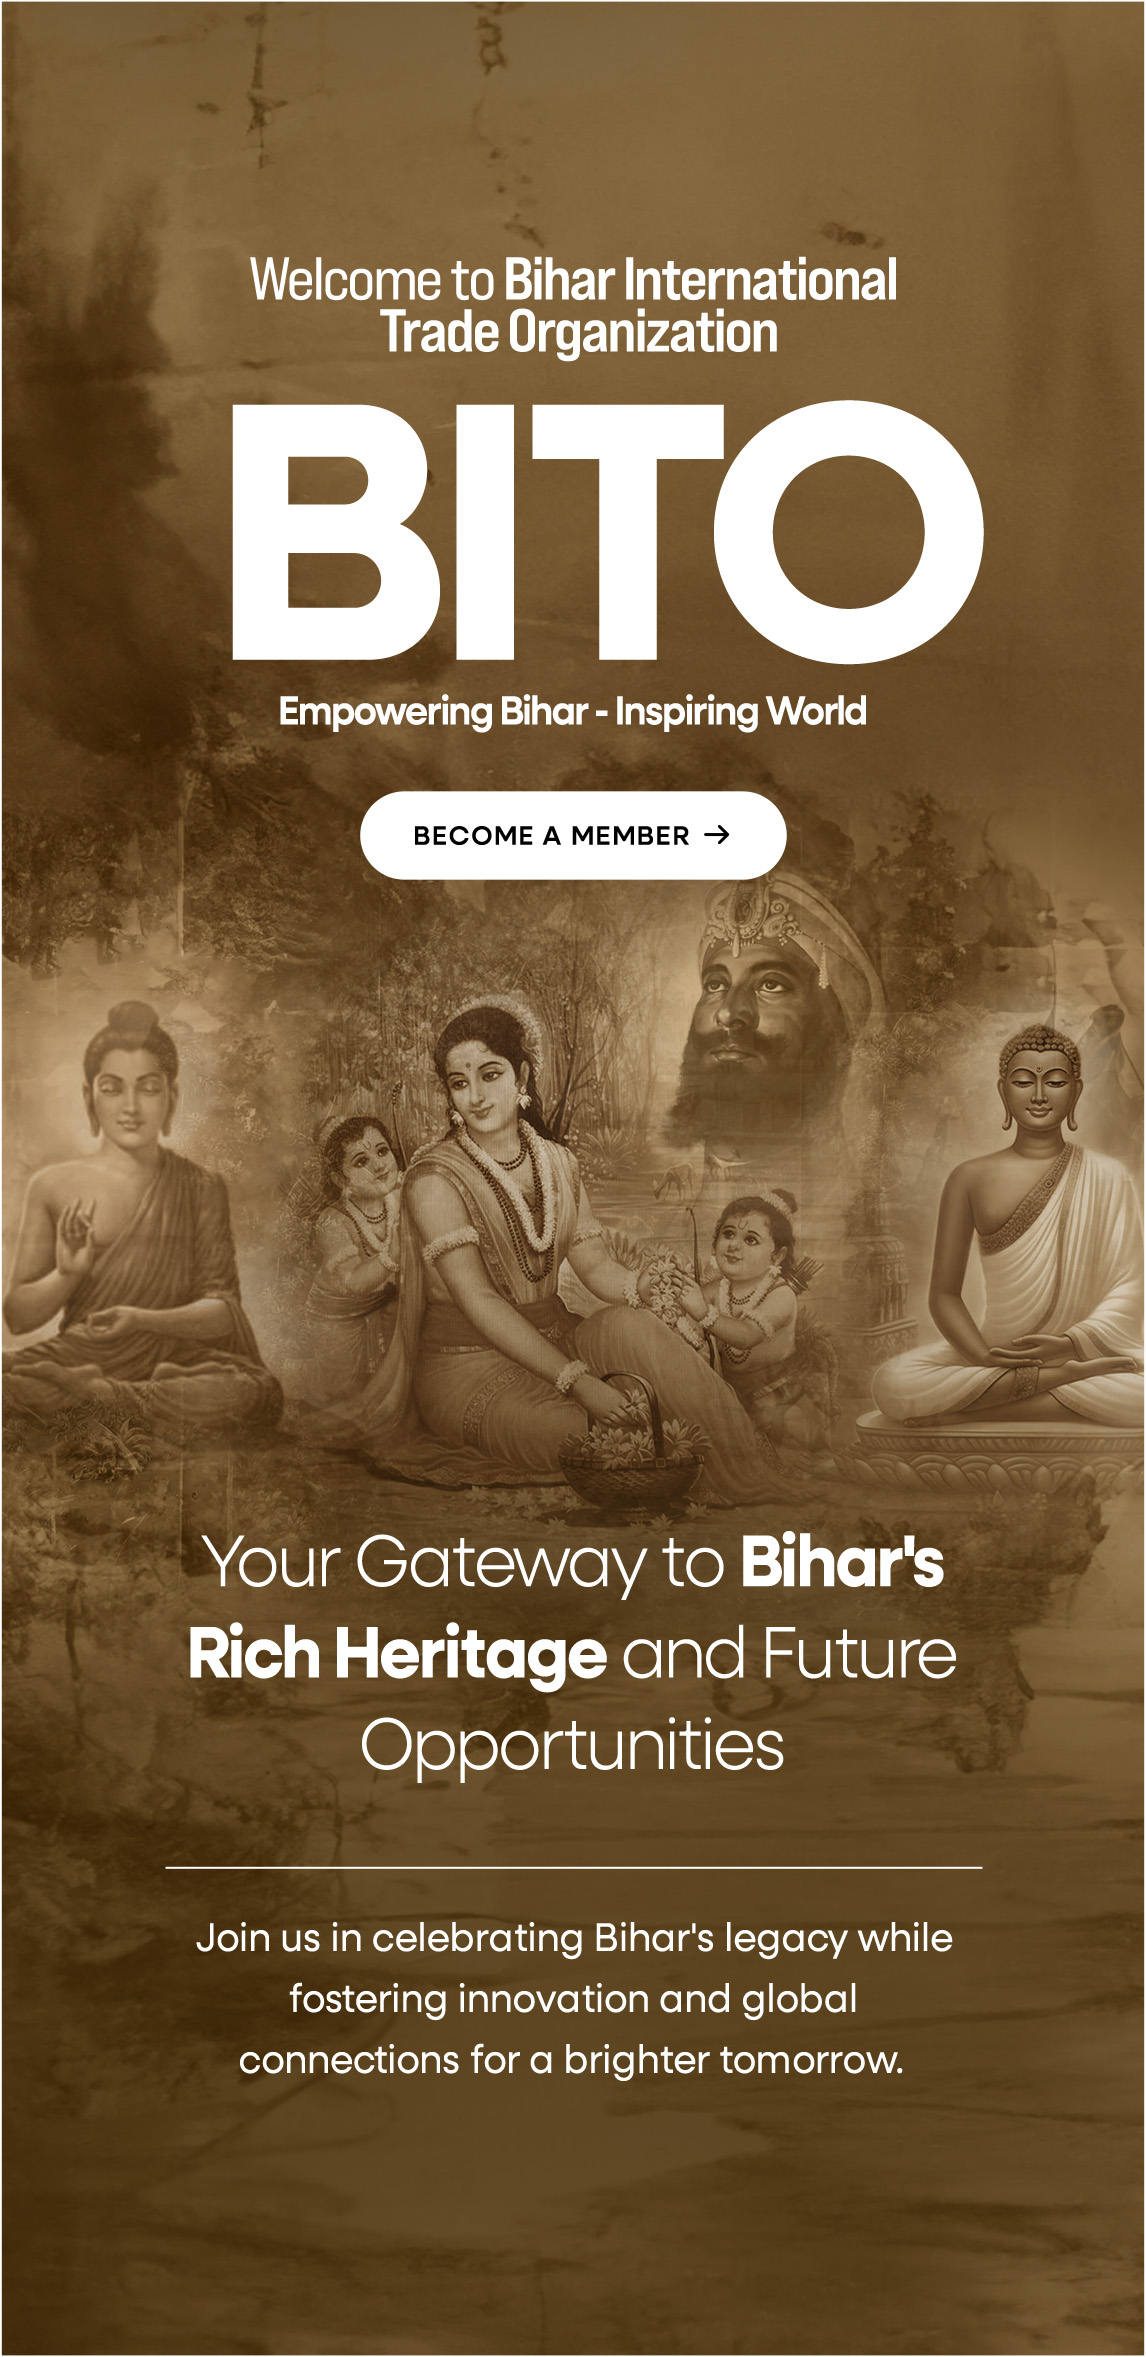
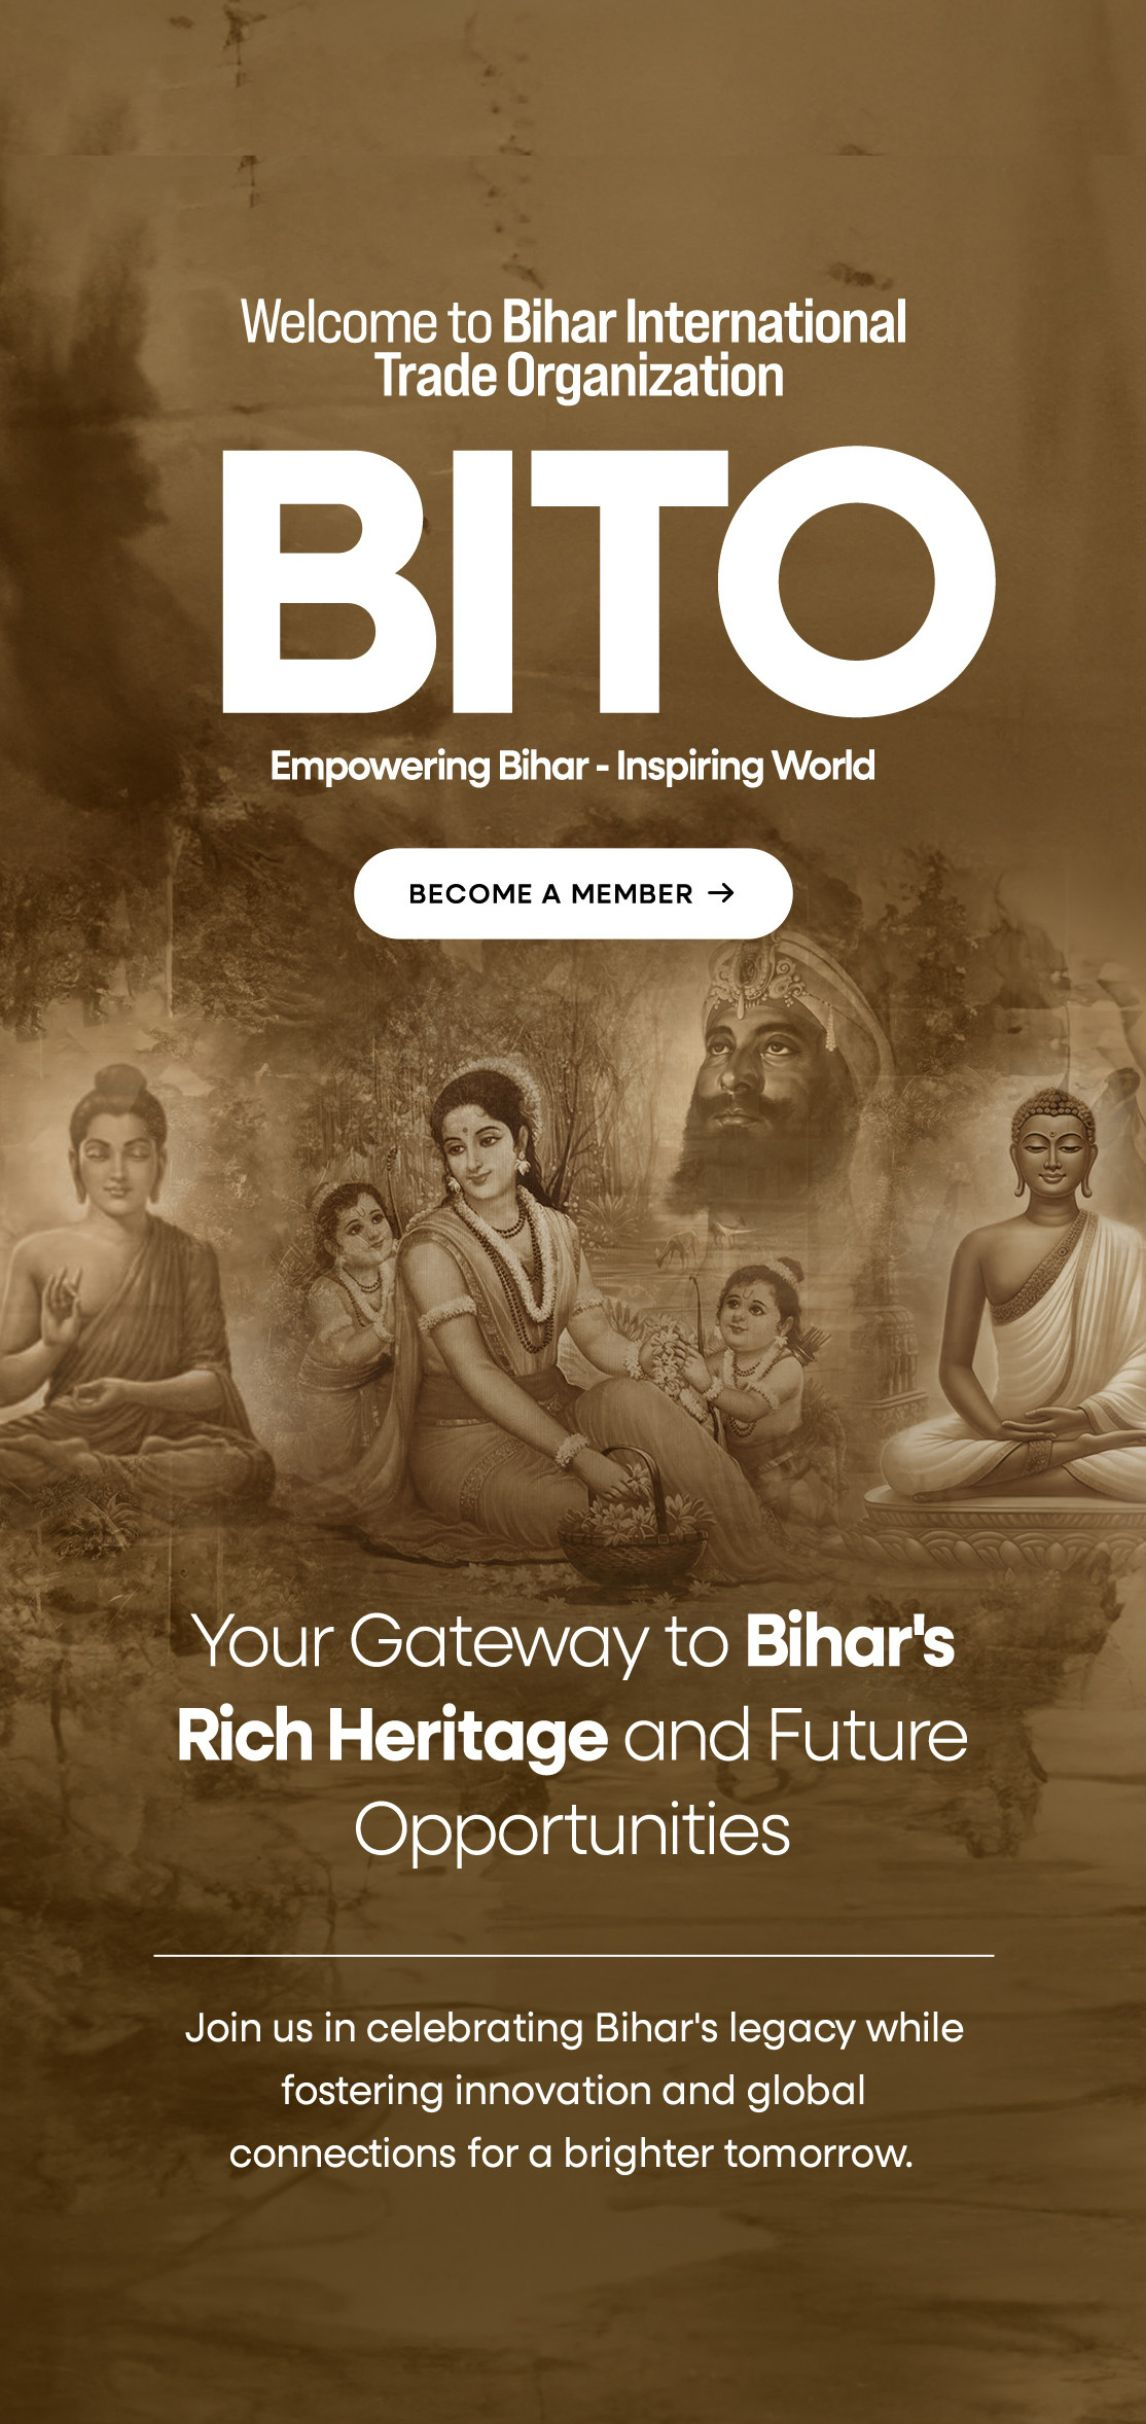
Initial commit

diff --git a/bito-world-frontend-main/src/pages/home/Home.jsx b/bito-world-frontend-main/src/pages/home/Home.jsx
@@ -82,7 +82,7 @@ const Home = (props) => {
       >
 
 <SwiperSlide
-  className="h-100 py-[50px] bg-[url('../assets/banners/Banner02.jpg')] bg-cover bg-center bg-no-repeat min-[800px]:max-[1200px]:py-[16pc] min-[600px]:max-[1000px]:py-[800px]! max-[600px]:mt-26 max-[600px]:bg-[url('../assets/home-banner/slider2.jpg')]"
+  className="h-100 py-[50px] bg-[url('../assets/banners/Banner02.jpg')] bg-cover bg-center bg-no-repeat min-[800px]:max-[1200px]:py-[16pc] min-[600px]:max-[1000px]:py-[800px]! max-[600px]:mt-20 max-[600px]:bg-[url('../assets/home-banner/slider2.jpg')]"
 >
 <div className="container text-white" style={{ height: "100vh" }}>
        
